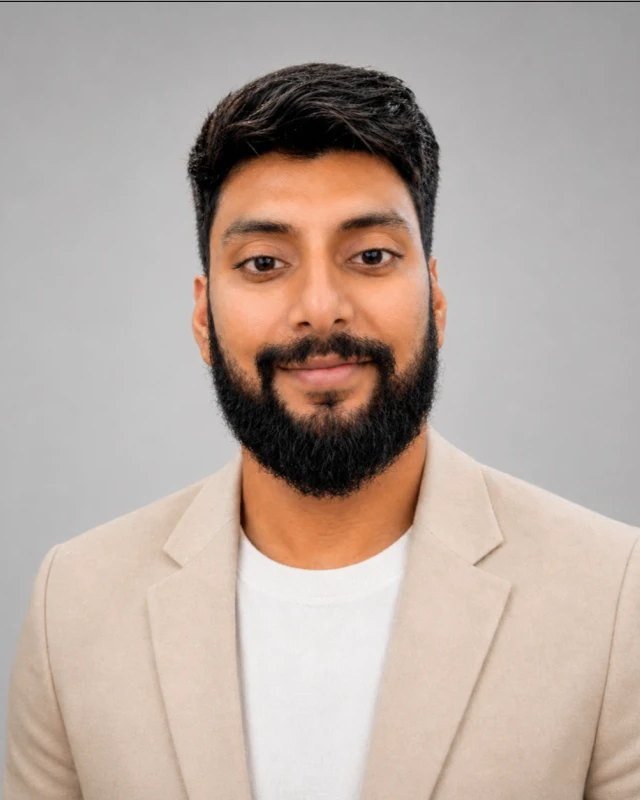
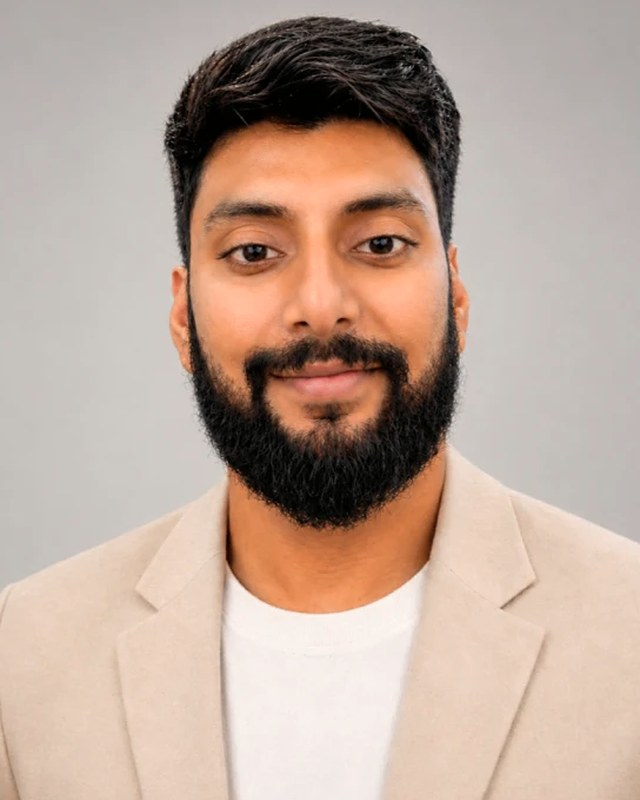
Founders: align portraits (shared eye-line, size and tone), shorter copy
- Re-crop both portraits so the eyes sit on one line at the same face
  scale; ease the two grey backgrounds to one tone
- Remove the stagger: both cards share one top line and size
- Cut the intro to two sentences and each bio to one short line
- Tighten the section's vertical padding

Claude-Session: https://claude.ai/code/session_01SZgYQPTspgjgdJg6iy336x

diff --git a/site/src/components/home/team.tsx b/site/src/components/home/team.tsx
@@ -15,7 +15,7 @@ export function Team() {
     <section
       id="about"
       className="relative overflow-hidden bg-ivory"
-      style={{ padding: "clamp(96px, 10vw, 168px) 0" }}
+      style={{ padding: "clamp(80px, 8vw, 128px) 0" }}
       aria-labelledby="team-title"
     >
       <span
@@ -28,7 +28,7 @@ export function Team() {
       />
 
       <div className="container-wide relative">
-        <div className="mb-16 grid grid-cols-1 items-end gap-10 md:mb-20 lg:grid-cols-[1.15fr_1fr] lg:gap-[130px]">
+        <div className="mb-12 grid grid-cols-1 items-end gap-8 md:mb-14 lg:grid-cols-[1.15fr_1fr] lg:gap-[130px]">
           <div>
             <Reveal>
               <Eyebrow className="mb-4">Who you&apos;ll work with</Eyebrow>
@@ -46,28 +46,16 @@ export function Team() {
             </Reveal>
           </div>
           <Reveal delay={0.2} direction="right">
-            <div>
-              <p className="max-w-[500px] text-[16px] leading-[1.85] text-muted">
-                We&apos;ve built for recruitment firms and specialist
-                contractors, and the same problems show up in plenty of
-                service businesses. Tight teams with real deadlines have no
-                patience for a tool that creates more admin than it saves.
-              </p>
-              <p className="mt-5 max-w-[500px] text-[16px] leading-[1.85] text-muted">
-                You work with the two of us. The people who design the system
-                are the people who build it.
-              </p>
-            </div>
+            <p className="max-w-[420px] text-[16px] leading-[1.75] text-muted lg:ml-auto">
+              You work with the two of us. The people who design the system
+              are the people who build it.
+            </p>
           </Reveal>
         </div>
 
-        <div className="mx-auto grid max-w-[940px] grid-cols-1 gap-x-8 gap-y-16 sm:grid-cols-2 lg:gap-x-14">
+        <div className="mx-auto grid max-w-[940px] grid-cols-1 items-start gap-x-8 gap-y-14 sm:grid-cols-2 lg:gap-x-14">
           {FOUNDERS.map((founder, i) => (
-            <Reveal
-              key={founder.name}
-              delay={i * 0.12}
-              className={i === 1 ? "sm:mt-20" : ""}
-            >
+            <Reveal key={founder.name} delay={i * 0.12}>
               <figure className="group">
                 <div className="relative pb-4 pr-4">
                   {/* offset gold frame */}
@@ -104,10 +92,10 @@ export function Team() {
                     </figcaption>
                   </div>
                 </div>
-                <div className="mt-8 pr-4">
+                <div className="mt-7 pr-4">
                   <span
                     aria-hidden="true"
-                    className="mb-4 block h-px w-10 bg-champagne"
+                    className="mb-3 block h-px w-10 bg-champagne"
                   />
                   <p className="text-[15px] leading-[1.7] text-muted text-balance">
                     {founder.bio}

diff --git a/site/src/lib/clients.ts b/site/src/lib/clients.ts
@@ -180,14 +180,14 @@ export const FOUNDERS = [
     title: "Chief AI Consultant",
     photo: "/team/abhas.jpg",
     alt: "Portrait of Abhas, Chief AI Consultant",
-    bio: "Six years as a product manager at Reliance Industries, a Fortune Global 500 company. Builds and advises on products and systems.",
+    bio: "6 years as a product manager at Reliance Industries, a Fortune Global 500 company.",
   },
   {
     name: "Nishi",
     title: "Chief Technology Officer",
     photo: "/team/nishi.jpg",
     alt: "Portrait of Nishi, Chief Technology Officer",
-    bio: "Claude-certified developer with 5 years as a data scientist at Gartner. Now building AI solutions for enterprises and SMBs.",
+    bio: "Claude-certified developer. 5 years as a data scientist at Gartner.",
   },
 ];
 

diff --git a/site/CLAUDE.md b/site/CLAUDE.md
@@ -89,7 +89,7 @@ Source of truth: Abhas's "anti-AI writing style" voice guide (Nov 2026). Spirit 
 - Page order (Nov 2026, built for a senior buyer): hero, client-name ticker, dark results band with industries, reviews (Jon video + quotes), case studies, three products, how we work, founders, final CTA. The old Problem and Services sections were removed.
 - Ticker names (supplied by Abhas): JG Asbestos, nailprinter.ca, Angelo's Cleaning, Certus Recruitment, Featherbank Selection, Woodland Building Supply, Perth Home Brokers. Industries are only listed where known (recruitment, specialist contracting, home services, building supply). Ask before adding an industry for nailprinter.ca or Perth Home Brokers.
 - Reviews (owner instruction, 4 Nov 2026): shown as JG Asbestos, nailprinter.ca and Featherbank Selection, with the "rehire Abhas" review removed. Upwork's own contract records name the reviewers Luke W. (both JG-titled contracts), Jon N. (org TSE) and Ron H., so the owner is vouching for the mapping. Each business is named publicly, so each should be happy to be quoted. No real review text exists yet for Angelo's Cleaning; never invent one.
-- Founders (4 Nov 2026): titles are "Chief AI Consultant" (Abhas) and "Chief Technology Officer" (Nishi), no "Founder" prefix. Portraits in public/team (first attachment = Nishi, second = Abhas, as the owner listed them). Bios live in FOUNDERS in clients.ts and are written WITHOUT pronouns because none were given. Do not add pronouns. Nishi's bio must NOT mention Reliance (owner instruction): Claude-certified developer, 5 years as a data scientist at Gartner. Portraits are deliberately modest in size (max 940px pair).
+- Founders (4 Nov 2026): titles are "Chief AI Consultant" (Abhas) and "Chief Technology Officer" (Nishi), no "Founder" prefix. Portraits in public/team (first attachment = Nishi, second = Abhas, as the owner listed them). Bios live in FOUNDERS in clients.ts and are written WITHOUT pronouns because none were given. Do not add pronouns. Nishi's bio must NOT mention Reliance (owner instruction): Claude-certified developer, 5 years as a data scientist at Gartner. Portraits are deliberately modest in size (max 940px pair). Portrait method (so replacements stay aligned): both are 640x800 crops with the eyes on the same line (y=250 of 800), the same eye distance (132px) and backgrounds eased to one tone (max 6% per channel). Pair is symmetric, same top line, no stagger. Bios are one short line each (Abhas: 6 years PM at Reliance Industries, a Fortune Global 500 company; Nishi: Claude-certified developer, 5 years data scientist at Gartner).
 - Upwork is not named anywhere on the site (owner's instruction). The reviews link and the "Upwork, Top Rated" label are removed. Internal notes here may still mention it as the source.
 - Video: unlisted YouTube nbeFW7Sw-hw, click-to-play with a local poster so nothing loads from YouTube until pressed. Jon's surname, company and role still needed.
 
